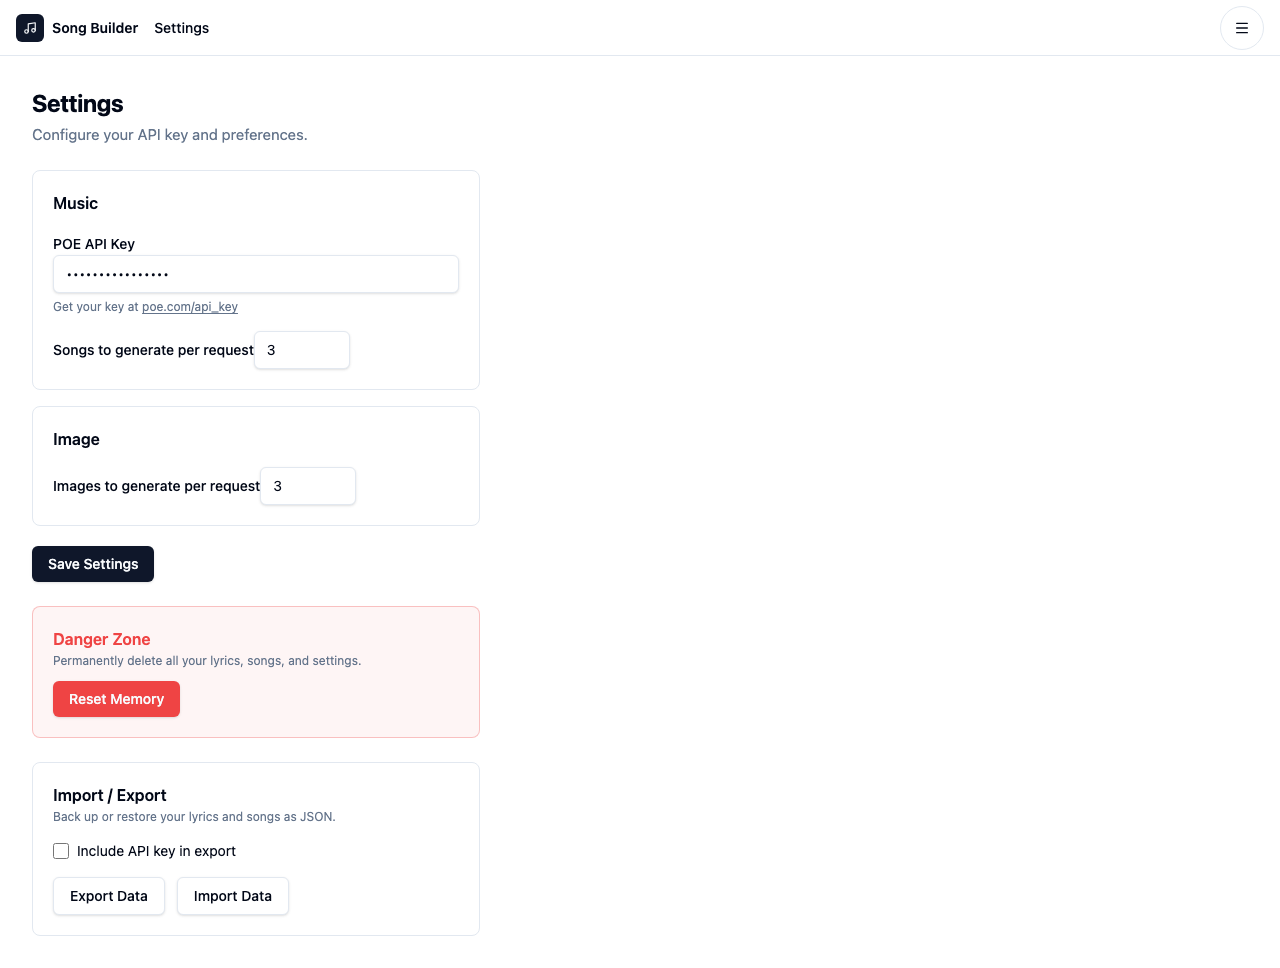
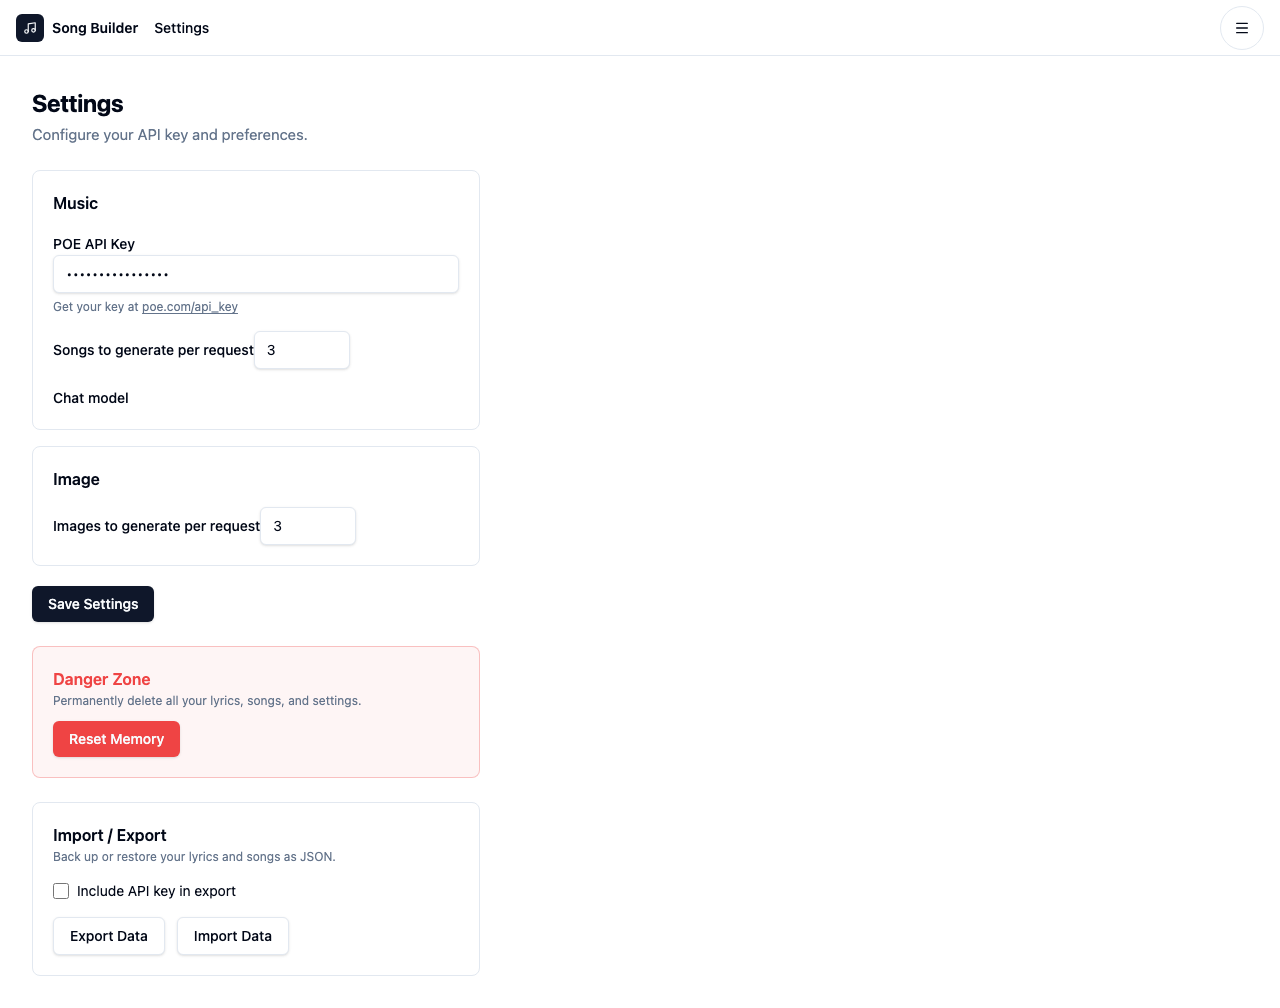
feat(US-001): fetch and filter POE V1 models in Settings
- On mount (when poeApiKey is set), call GET https://api.poe.com/v1/models
  with Authorization: Bearer <poeApiKey>
- Filter: keep models created within last 6 months AND
  (price_per_input_token * 1_000_000) < 2.0
- Render a Chat model dropdown inside the Music card when models load
- Show an inline error alert when fetch fails (preserves any saved model)
- No dropdown rendered when API key is absent
- Use cancellation flag to avoid state updates after unmount
- Regenerate settings screenshot baselines (page is taller with the new section)

diff --git a/src/music/pages/Settings.tsx b/src/music/pages/Settings.tsx
@@ -1,4 +1,4 @@
-import { useState, useRef, type ChangeEvent, type FormEvent } from "react";
+import { useState, useEffect, useRef, type ChangeEvent, type FormEvent } from "react";
 import { useNavigate } from "react-router-dom";
 import {
   getSettings,
@@ -33,6 +33,52 @@ export default function Settings() {
   const [importError, setImportError] = useState("");
   const [showResetDialog, setShowResetDialog] = useState(false);
   const fileInputRef = useRef<HTMLInputElement>(null);
+
+  // Chat model list fetched from POE V1 API
+  const [chatModels, setChatModels] = useState<{ id: string; label: string }[]>([]);
+  const [chatModelError, setChatModelError] = useState("");
+
+  useEffect(() => {
+    if (!apiKey) return;
+
+    const sixMonthsAgo = new Date();
+    sixMonthsAgo.setMonth(sixMonthsAgo.getMonth() - 6);
+
+    let cancelled = false;
+    fetch("https://api.poe.com/v1/models", {
+      headers: { Authorization: `Bearer ${apiKey}` },
+    })
+      .then((res) => {
+        if (!res.ok) throw new Error(`HTTP ${res.status}`);
+        return res.json() as Promise<{
+          data: Array<{
+            id: string;
+            created: number;
+            price_per_input_token?: number;
+          }>;
+        }>;
+      })
+      .then((body) => {
+        if (cancelled) return;
+        const filtered = (body.data ?? [])
+          .filter((m) => {
+            const createdAt = new Date(m.created * 1000);
+            const pricePerMillion = (m.price_per_input_token ?? 0) * 1_000_000;
+            return createdAt >= sixMonthsAgo && pricePerMillion < 2.0;
+          })
+          .map((m) => ({ id: m.id, label: m.id }));
+        setChatModels(filtered);
+        setChatModelError("");
+      })
+      .catch(() => {
+        if (cancelled) return;
+        setChatModelError("Failed to load models. Your saved model is preserved.");
+      });
+
+    return () => {
+      cancelled = true;
+    };
+  }, [apiKey]);
 
   function handleSubmit(e: FormEvent<HTMLFormElement>) {
     e.preventDefault();
@@ -139,6 +185,30 @@ export default function Settings() {
               className="w-24 rounded-md border border-input bg-background px-3 py-2 text-sm shadow-sm focus-visible:outline-none focus-visible:ring-1 focus-visible:ring-ring"
             />
           </div>
+
+          {apiKey && (
+            <div className="space-y-1.5">
+              <label htmlFor="chatModel" className="text-sm font-medium">
+                Chat model
+              </label>
+              {chatModelError ? (
+                <p className="text-sm text-destructive" role="alert" data-testid="chat-model-error">
+                  {chatModelError}
+                </p>
+              ) : chatModels.length > 0 ? (
+                <select
+                  id="chatModel"
+                  className="w-full rounded-md border border-input bg-background px-3 py-2 text-sm shadow-sm focus-visible:outline-none focus-visible:ring-1 focus-visible:ring-ring"
+                >
+                  {chatModels.map((m) => (
+                    <option key={m.id} value={m.id}>
+                      {m.label}
+                    </option>
+                  ))}
+                </select>
+              ) : null}
+            </div>
+          )}
         </div>
 
         <div className="rounded-lg border bg-card p-5 space-y-4">
